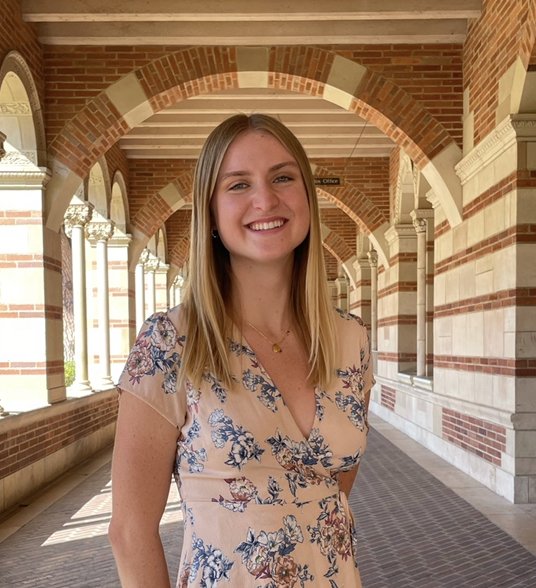
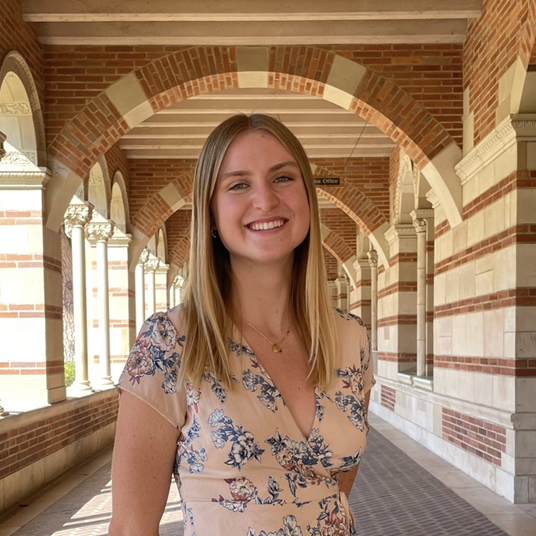
julia pic

diff --git a/team.html b/team.html
@@ -65,7 +65,7 @@
 
       <figure class="julia">
         <a href="https://www.linkedin.com/in/julia-lindner-893a2576/">
-        <img src="img/julia.png" />
+        <img src="img/julia.jpg" />
         </a>
         <figcaption>
             <h2>Julia Lindner</h2>
